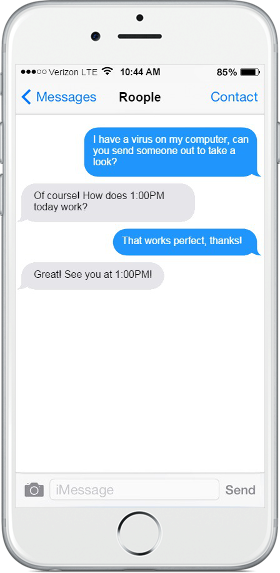
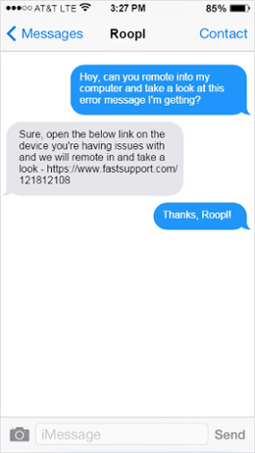
iphone background and more fun

diff --git a/index.html b/index.html
@@ -21,75 +21,36 @@
   		<header>
 	  		
 	    </header>
-	  	<section class="css-iPhone">
+	  	<section class="main">
 	  	<div class="container">
 	  		<div class="row">
 	  			<div class="main-iphone">
-	  				<div class="col-md-6 text-left">
+	  				<div class="col-md-4 text-left">
 	  					<h1>Fatsy</h1>
 	  					<p>Simply send us a picture and we will estimate your body fat percentage</p>
 	  				</div>
-	  				<div class="col-md-6 text-center">
-	  					<div class="marvel-device iphone6 silver">
-					    <div class="top-bar"></div>
-					    <div class="sleep"></div>
-					    <div class="volume"></div>
-					    <div class="camera"></div>
-					    <div class="sensor"></div>
-					    <div class="speaker"></div>
-					    <div class="screen">
-					        <div id="carousel-example-generic" class="carousel slide" data-ride="carousel">
-			  				<!-- Indicators -->
-							  <ol class="carousel-indicators">
-							    <li data-target="#carousel-example-generic" data-slide-to="0" class="active"></li>
-							    <li data-target="#carousel-example-generic" data-slide-to="1"></li>
-							    <li data-target="#carousel-example-generic" data-slide-to="2"></li>
-							  </ol>
-
+	  				<div class="col-md-4 col-md-offset-2 text-center">
+	  					 <div class="screen">
+					        <div id="carousel" data-interval="3000" class="carousel slide" data-ride="carousel">
 							  <!-- Wrapper for slides -->
-							  <div class="carousel-inner iPhone-img" role="listbox">
+							  <div class="carousel-inner iPhone-img text-center" role="listbox">
 							    <div class="item active">
 							      <img src="images/iphone_half2.png" alt="...">
-							      <div class="carousel-caption">
-							        ...
-							      </div>
 							    </div>
 							    <div class="item">
-							      <img src="images/iphone_Rlogo.png" alt="...">
-							      <div class="carousel-caption">
-							        ...
-							      </div>
+							      <img src="images/iphone_Convo.png" alt="...">
 							    </div>
-							    ...
 							  </div>
 							 
 							</div><!-- end of car -->
 					    </div>
-					    <div class="home"></div>
-					    <div class="bottom-bar"></div>
-					</div>
-	  				</div>
-	  			</div>	
-	  		</div>
-		</div>
-		</section>
-	</section>
-  	
-	  <section class="main">
-	  	<div class="container">
-	  		<div class="row">
-	  			<div class="main-iphone">
-	  				<div class="col-md-6 text-left">
-	  					<h1>Fatsy</h1>
-	  					<p>Simply send us a picture and we will estimate your body fat percentage</p>
-	  				</div>
-	  				<div class="col-md-6 text-center">
-	  					<img src="images/iphone_Rlogo.png"class="image-responsive">
 	  				</div>	
 	  			</div>	
 	  		</div>
 		</div>
-	</section>
+		</section>
+  	
+	  
 	</section>
    
 

diff --git a/style.css b/style.css
@@ -1,4 +1,16 @@
-.iPhone-img {
-	width: 225px;
-	height: 500px;
+.main {
+	height: 700px;
 }
+.screen {
+	background-image: url("images/iphone_Rlogo.png");
+	height: 570px;
+	width: 280px;
+	padding-top: 20px;
+	padding-left: 22px;
+}
+.carousel-inner {
+	width: 235px;
+	height: 430px;
+	margin-top: 57px;
+}
+
